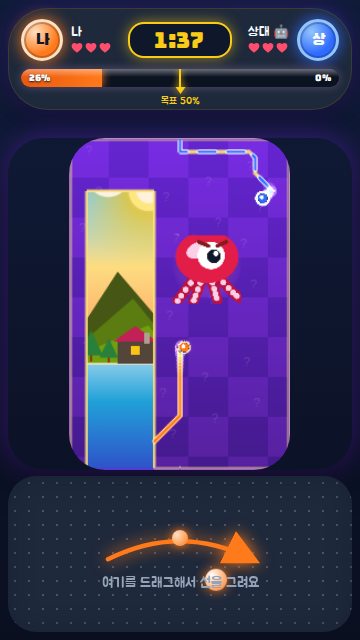
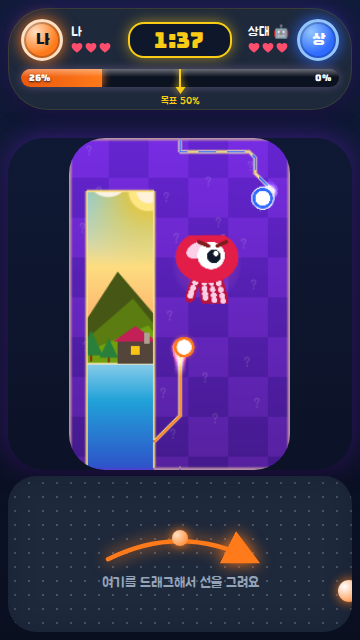
fix: mockup A orb (white disc + #FF7A1A ring) and trail WIDTH 5px at 390
Stamp RADIUS 0.85/1.25 cells. Measured rendered WIDTH (not radius):
390×844 solid 5px glow 7px; 360×640 3/7; 412×915 5/8.
Orb is 24 cells (~39px at 390) with a 26px floor so 360 stays readable.

diff --git a/packages/client/src/main.ts b/packages/client/src/main.ts
@@ -35,9 +35,9 @@ const AFTERIMAGES = 10;
 const KK_TEX = 256;
 /** Full sprite ~31% of board so the octopus body reads as ~1/4 width. */
 const KK_CELLS = 62;
-/** Mockup A orb: ~32px at 390×844 (white disc + ring). Floor keeps 360×640 readable. */
-const ORB_CELLS = 20;
-const ORB_MIN_PX = 20;
+/** Mockup A orb: ~39px at 390×844 (white disc + ring). Floor keeps 360×640 readable. */
+const ORB_CELLS = 24;
+const ORB_MIN_PX = 26;
 const ORB_TEX = 128;
 const QA_STEPS_PER_PULSE = 6;
 const QA_STEPS_AFTER_CUT = 16;
@@ -987,12 +987,12 @@ class GameScene extends Phaser.Scene {
       for (const p of dots) gfx.fillCircle(p.x, p.y, radius);
     };
     // Stamp RADIUS in cells. WIDTH ≈ 2×radius×cssScale; 0.85/1.55 → ~4–5px at 390×844.
-    const glowR = scale * 1.55;
-    const midR = scale * 1.15;
+    const glowR = scale * 1.25;
+    const midR = scale * 1.05;
     const coreR = scale * 0.85;
     const hiR = scale * 0.32;
-    stamp(glowGfx, glowR, glow, 0.16);
-    stamp(glowGfx, midR, glow, 0.32);
+    stamp(glowGfx, glowR, glow, 0.14);
+    stamp(glowGfx, midR, glow, 0.28);
     stamp(this.trailGfx, coreR, glow, 1);
     stamp(this.trailGfx, hiR, core, 1);
   }

diff --git a/packages/client/src/visualA.ts b/packages/client/src/visualA.ts
@@ -322,9 +322,9 @@ export function paintOrb(
   g.clearRect(0, 0, s, s);
   const cx = s / 2;
   const cy = s / 2;
-  const glow = g.createRadialGradient(cx, cy, s * 0.20, cx, cy, s * 0.5);
-  glow.addColorStop(0, hexAlpha(color, 0.50));
-  glow.addColorStop(0.42, hexAlpha(color, 0.20));
+  const glow = g.createRadialGradient(cx, cy, s * 0.22, cx, cy, s * 0.5);
+  glow.addColorStop(0, hexAlpha(color, 0.42));
+  glow.addColorStop(0.40, hexAlpha(color, 0.16));
   glow.addColorStop(1, hexAlpha(color, 0));
   g.fillStyle = glow;
   g.beginPath();
@@ -332,17 +332,17 @@ export function paintOrb(
   g.fill();
   g.fillStyle = color;
   g.beginPath();
-  g.arc(cx, cy, s * 0.30, 0, Math.PI * 2);
+  g.arc(cx, cy, s * 0.36, 0, Math.PI * 2);
   g.fill();
   g.fillStyle = '#ffffff';
   g.beginPath();
-  g.arc(cx, cy, s * 0.20, 0, Math.PI * 2);
+  g.arc(cx, cy, s * 0.26, 0, Math.PI * 2);
   g.fill();
   if (whiteRing) {
     g.strokeStyle = '#ffffff';
-    g.lineWidth = Math.max(2, s * 0.045);
+    g.lineWidth = Math.max(2, s * 0.04);
     g.beginPath();
-    g.arc(cx, cy, s * 0.33, 0, Math.PI * 2);
+    g.arc(cx, cy, s * 0.38, 0, Math.PI * 2);
     g.stroke();
   }
 }

diff --git a/tests/e2e/cover-layout.spec.ts b/tests/e2e/cover-layout.spec.ts
@@ -229,7 +229,7 @@ test.describe('Cover spike 390x844', () => {
       expect(measured.solidWidth, shot.label).toBeGreaterThanOrEqual(shot.minSolid);
       expect(measured.solidWidth, shot.label).toBeLessThanOrEqual(shot.maxSolid);
       expect(measured.glowWidth, shot.label).toBeGreaterThanOrEqual(measured.solidWidth);
-      expect(measured.glowWidth, shot.label).toBeLessThanOrEqual(14);
+      expect(measured.glowWidth, shot.label).toBeLessThanOrEqual(9);
       fs.mkdirSync(path.join(process.cwd(), shot.dir), { recursive: true });
       await page.screenshot({ path: path.join(process.cwd(), shot.dir, 'orb-mid-draw.png') });
     }
